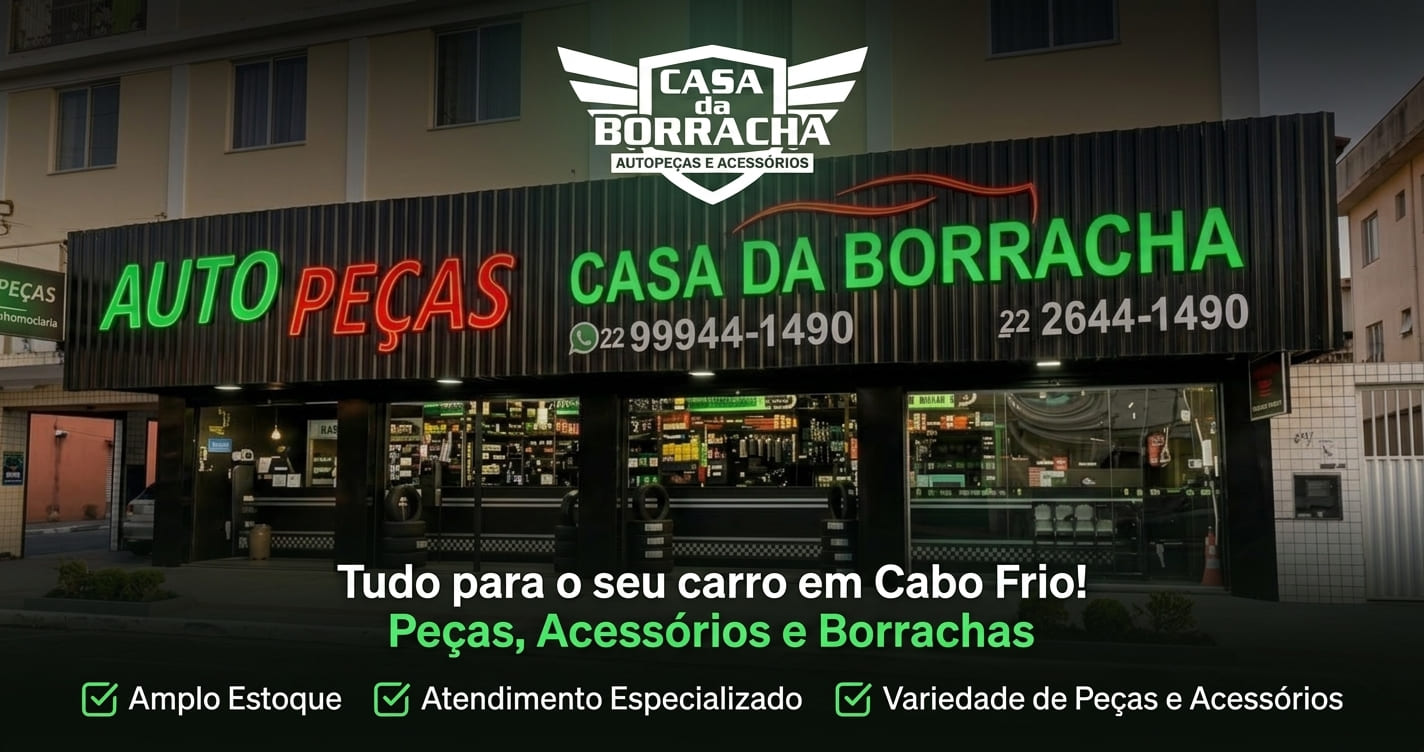
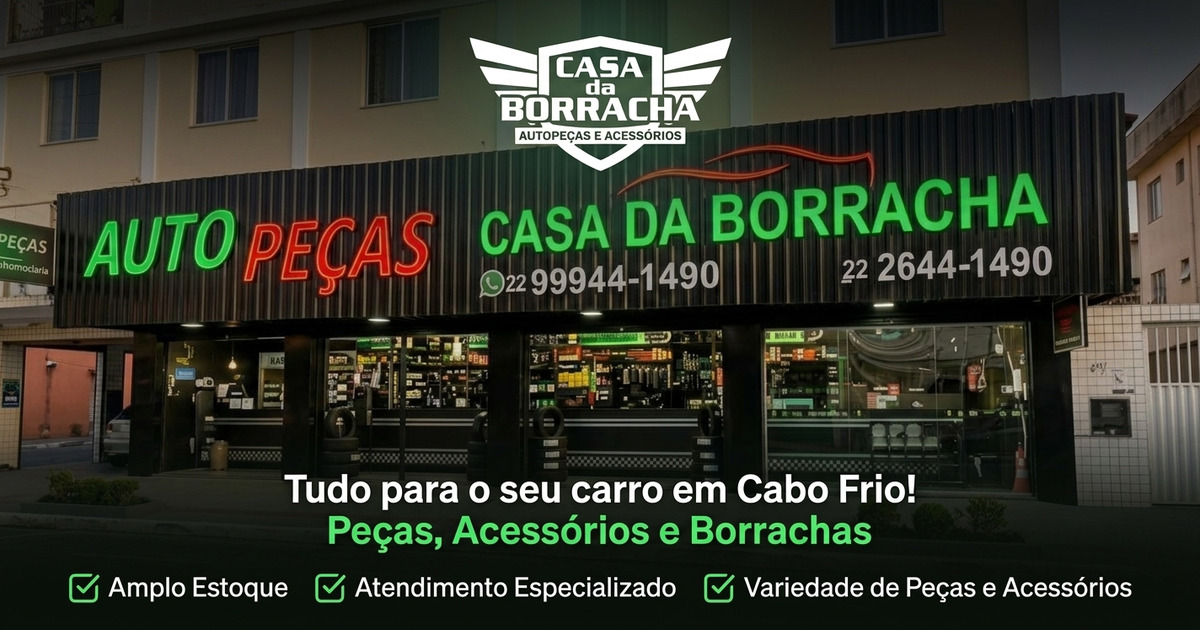
bug fix

diff --git a/index.html b/index.html
@@ -8,17 +8,35 @@
   <meta name="description"
     content="Auto peças, borrachas, mangueiras e acessórios em Cabo Frio - RJ. Atendimento e orçamento pelo WhatsApp." />
   <meta name="author" content="Casa da Borracha Cabo Frio" />
-  <meta property="og:title" content="Casa da Borracha Cabo Frio" />
-  <meta property="og:url" content="https://casa-da-borracha-preview.vercel.app/" />
-  <meta property="og:description" content="Auto peças e acessórios na Av. Joaquim Nogueira, 1506 - Cabo Frio - RJ." />
+  <link rel="canonical" href="https://casa-da-borracha-preview.vercel.app/" />
+
+  <!--
+    Preview de link (WhatsApp, Facebook, Instagram, X, LinkedIn).
+    As URLs de imagem PRECISAM ser absolutas (https://...). Caminho relativo
+    como "/og-image.jpg" faz o WhatsApp desistir e cair no ícone quadrado.
+    O ?v=2 no final serve para furar o cache do WhatsApp; incremente para ?v=3
+    sempre que trocar a imagem.
+  -->
+  <meta property="og:title" content="Casa da Borracha Cabo Frio | Auto Peças e Acessórios" />
+  <meta property="og:description"
+    content="Peças e borrachas automotivas na Av. Joaquim Nogueira, 1506 - São Cristóvão, Cabo Frio. Entrega rápida na Região dos Lagos." />
   <meta property="og:type" content="website" />
-  <!-- COLOQUE SUA OG IMAGE AQUI: deve ser 1200x630px, nomeie como og-image.jpg e coloque na pasta public/ -->
-  <meta property="og:image" content="/og-image.jpg" />
+  <meta property="og:url" content="https://casa-da-borracha-preview.vercel.app/" />
+  <meta property="og:site_name" content="Casa da Borracha Cabo Frio" />
+  <meta property="og:locale" content="pt_BR" />
+  <meta property="og:image" content="https://casa-da-borracha-preview.vercel.app/og-image.jpg?v=2" />
+  <meta property="og:image:secure_url" content="https://casa-da-borracha-preview.vercel.app/og-image.jpg?v=2" />
+  <meta property="og:image:type" content="image/jpeg" />
   <meta property="og:image:width" content="1200" />
   <meta property="og:image:height" content="630" />
   <meta property="og:image:alt" content="Casa da Borracha Cabo Frio - Auto Peças e Acessórios" />
+
   <meta name="twitter:card" content="summary_large_image" />
-  <meta name="twitter:image" content="/og-image.jpg" />
+  <meta name="twitter:title" content="Casa da Borracha Cabo Frio | Auto Peças e Acessórios" />
+  <meta name="twitter:description"
+    content="Peças e borrachas automotivas na Av. Joaquim Nogueira, 1506 - São Cristóvão, Cabo Frio. Entrega rápida na Região dos Lagos." />
+  <meta name="twitter:image" content="https://casa-da-borracha-preview.vercel.app/og-image.jpg?v=2" />
+  <meta name="twitter:image:alt" content="Casa da Borracha Cabo Frio - Auto Peças e Acessórios" />
 
   <link rel="apple-touch-icon" sizes="180x180" href="/apple-touch-icon.png" />
   <link rel="icon" type="image/png" sizes="32x32" href="/favicon-32x32.png" />

diff --git a/src/routes/index.tsx b/src/routes/index.tsx
@@ -30,19 +30,6 @@ import catSuspensao from "@/assets/cat-suspensao.jpg";
 import catPalhetas from "@/assets/cat-palhetas.jpg";
 import catAcessorios from "@/assets/cat-acessorios.jpg";
 
-const SITE_URL = "https://casa-da-borracha-preview.vercel.app";
-
-/*
- * Imagem usada no preview de links (WhatsApp, Facebook, X, LinkedIn).
- * Hoje aponta para o hero (1600x1008) só para já funcionar.
- * O ideal é criar /src/assets/og-image.jpg em 1200x630, JPEG, abaixo de 300KB,
- * trocar o import abaixo e ajustar OG_IMAGE_WIDTH/HEIGHT para 1200 / 630.
- */
-import ogImage from "@/assets/og-image.jpg";
-const OG_IMAGE_WIDTH = "1200";
-const OG_IMAGE_HEIGHT = "630";
-const OG_IMAGE_URL = `${SITE_URL}${ogImage}`;
-
 export const Route = createFileRoute("/")({
   head: () => ({
     meta: [
@@ -64,35 +51,8 @@ export const Route = createFileRoute("/")({
           "Peças e borrachas automotivas na Av. Joaquim Nogueira, 1506 - São Cristóvão, Cabo Frio. Entrega rápida na Região dos Lagos.",
       },
       { property: "og:type", content: "website" },
-      { property: "og:url", content: SITE_URL },
-      { property: "og:site_name", content: "Casa da Borracha Cabo Frio" },
-      { property: "og:locale", content: "pt_BR" },
-      { property: "og:image", content: OG_IMAGE_URL },
-      { property: "og:image:secure_url", content: OG_IMAGE_URL },
-      { property: "og:image:type", content: "image/jpeg" },
-      { property: "og:image:width", content: OG_IMAGE_WIDTH },
-      { property: "og:image:height", content: OG_IMAGE_HEIGHT },
-      {
-        property: "og:image:alt",
-        content: "Casa da Borracha - Auto Peças e Acessórios em Cabo Frio",
-      },
       { name: "twitter:card", content: "summary_large_image" },
-      {
-        name: "twitter:title",
-        content: "Casa da Borracha Cabo Frio | Auto Peças e Acessórios",
-      },
-      {
-        name: "twitter:description",
-        content:
-          "Peças e borrachas automotivas na Av. Joaquim Nogueira, 1506 - São Cristóvão, Cabo Frio. Entrega rápida na Região dos Lagos.",
-      },
-      { name: "twitter:image", content: OG_IMAGE_URL },
-      {
-        name: "twitter:image:alt",
-        content: "Casa da Borracha - Auto Peças e Acessórios em Cabo Frio",
-      },
     ],
-    links: [{ rel: "canonical", href: `${SITE_URL}/` }],
   }),
   component: Index,
 });
